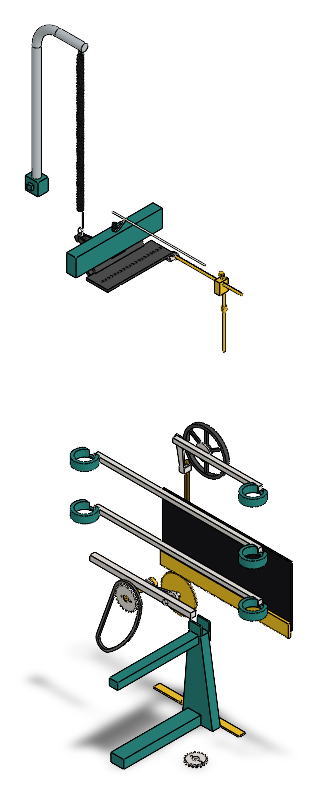
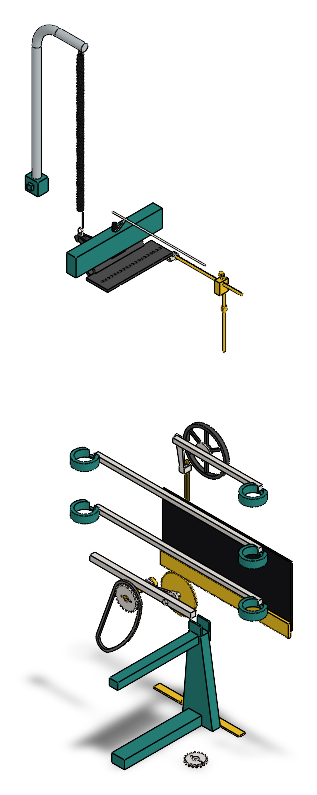
portal frame integrated: arbor pedestal z 90.5 / arbor 196 / foot rail east face shift; drive-train + output + top-level rebuilt, zero interference

diff --git a/cad/scripts/build_drive_train_assembly.py b/cad/scripts/build_drive_train_assembly.py
@@ -197,7 +197,8 @@ X_CRANK = (
     GEAR64_SEAT[0] + R64 * COS_I + 12.7 + (ADD16 * (1.0 + SEC_I) - PEN16_MID)
 )  # 118.00 -- photo: pedestal 122 +- 3 (1.3 sigma, see DIMENSIONS.md)
 
-ARBOR_LENGTH = 200.0  # spans z -100..+100
+ARBOR_LENGTH = 196.0  # spans z -98..+98 (M6.9: 1.0 clear of the a-frame
+# plate back face -99; north end keeps 23.9 in the support boss bore)
 CRANKSHAFT_Z0 = -150.0  # front end; crank-arm hub at +12 (PIN_HOLE_HEIGHT)
 CRANKSHAFT_LENGTH = 120.0  # build_crankshaft.py SHAFT_LENGTH
 CRANK_ARM_Z0 = CRANKSHAFT_Z0 + 8.0  # hub centre 12 - half thickness 4
@@ -207,8 +208,10 @@ REMOVABLE_Z0 = -85.6  # mounted T12 (face 5.0) against the pedestal north face:
 # chain rides its m2 teeth; v2_gears_010 shows the small steel wheel on the
 # crank pedestal), band -85.6..-80.6
 PEDESTAL_Z = -108.6  # crank pedestal centre (front face inside base edge)
-ARBOR_PEDESTAL_Z = 92.0  # south (-z) end only; north end clamps into the
-# rocker-arm-support boss bore at z 74.1..133 (frame.SLDASM, M6.5)
+ARBOR_PEDESTAL_Z = 90.5  # south (-z) end only; north end clamps into the
+# rocker-arm-support boss bore at z 74.1..133 (frame.SLDASM, M6.5).
+# M6.9: 92 -> 90.5 so the block front face -98.5 clears the a-frame
+# plate back face -99 by 0.5 (the portal-frame thickening)
 
 # The pinion must sit fully on the crankshaft.
 if PINION_TOOTH_Z + PINION_FACE / 2.0 > CRANKSHAFT_Z0 + CRANKSHAFT_LENGTH:

diff --git a/cad/scripts/build_a_frame.py b/cad/scripts/build_a_frame.py
@@ -80,7 +80,8 @@ RAIL_OVERLAP = 2.0  # sketch offset 2 inside the plate so the solids merge
 TOP_RAIL_X = (62.9, 82.9)  # = frustum apex span (20), inside the 28 apex
 TOP_RAIL_DEPTH = 16.0  # y 161.8..177.8 (machine 212.6..228.6 = photo window top)
 TOP_RAIL_Z1 = 201.45  # machine +90.45: frustum apex face 90.70 at rail bottom - 0.25
-FOOT_RAIL_X = (57.9, 87.9)  # 30 wide centred on the pivot line machine x +72.9
+FOOT_RAIL_X = (59.75, 89.75)  # 30 wide, west face 0.25 east of the
+# arbor-pedestal block (machine x +35.5..+59.5, drive-train.SLDASM)
 FOOT_RAIL_H = 20.0  # photo: bolted foot flange ~20 tall (bolts not modeled)
 FOOT_RAIL_Z1 = 192.35  # machine +81.35: frustum base face +81.6 - 0.25
 

diff --git a/cad/DIMENSIONS.md b/cad/DIMENSIONS.md
@@ -204,7 +204,7 @@ toward the horizon (e.g. the crank pedestal at x +122.3 reads at ratio
 | part | dims | position (x, z), bore y = 76 | source | confidence |
 |---|---|---|---|---|
 | `crank-pedestal` | green cylinder Ø46 × 110 tall, Ø9.5 bore along Z | (+118.00, −108.6) | front view: centre +123 ± 3 (M6.7 mesh-derived x within 1.3σ — crankshaft row), Ø 278 px / 6.02 px/mm, top ~110 above base top; z: standing inside the base front edge (−133.35), shaft stations in front | low/med |
-| `arbor-pedestal` ×1 (M6.5) | green block 24 × 16 × 85, Ø9.5 clamp bore along Z | (−47.5, −92) south only — arbor 200 long spans z ±100, stack ends ±70.6; the NORTH end clamps into the rocker-support frustum's east-flank boss bore (Ø9.7 at local (+25.4, 76) = machine (−47.5, 126.8), boss Ø20 face at z 74.1) — calibrated v3 side view shows no north pedestal, the arbor disappears into the frustum flank | function-driven; v3 side view (6.124 px/mm) | low/med |
+| `arbor-pedestal` ×1 (M6.5, M6.9 trim) | green block 24 × 16 × 85, Ø9.5 clamp bore along Z | (−47.5, −90.5) south only (M6.9: 92 → 90.5, block front face −98.5 clears the thickened a-frame plate back face −99 by 0.5) — arbor 196 long spans z ±98 (M6.9: 200 → 196, 1.0 clear of the plate), stack ends ±70.6; the NORTH end clamps into the rocker-support frustum's east-flank boss bore (Ø9.7 at local (+25.4, 76) = machine (−47.5, 126.8), boss Ø20 face at z 74.1) — calibrated v3 side view shows no north pedestal, the arbor disappears into the frustum flank | function-driven; v3 side view (6.124 px/mm) | low/med |
 | `cone-pivot-post` | black steel block 25 × 20 × 85, Ø9.5 journal bore (rotated 21.1° in plan with the cone axis) | (+62.4, −76.1) = shaft station −1 from the pivot end: the shaft engages the first 9 mm of the bore and ends inside (blind-bearing look — p.18 shows the shaft end disappearing into the bracket); the rotated block's z-reach 13.83 stops 1.0 clear of the perpendicular 64T's south face | p.18 "pivot" bracket; journal length from the cone-shaft row (~25) | low |
 | `cone-knob-post` | green round post Ø32 × 80, upward-open U-slot 3.5 wide, floor at 74.4 (resting 1/8" tip centre 76) | (−1.7, +90.0) = shaft station 177 from the pivot end (thin-tip journal) | p.18 top-down: green post Ø ~72 px / 2.23 px/mm (largest-cone-gear-OD scale); view 5/8 ball-knob at x ≈ −20 ± 15 agrees within error | low |
 
@@ -494,7 +494,7 @@ dead centre and the gaps flank it at ±p/2: rack teeth land on those gaps
 | Chain wheels | the two MOUNTED removable gears themselves (knob shaft T24, crankshaft T12): the bead chain rides their m2 teeth — that is how gear swaps change the platen ratio, and why the latch slackens the chain | — | M6.8 supersedes the M4c "17T sprockets both ends": ch. 23 text + `v4_transgear_002/008/012` (chain visibly wraps the removable's coarse teeth); ch30 p002 full-res: upper wrap tips Ø ≈ 53.6 ≈ T24 OD 52 at post-mirror (−65, ~248); crank wheel small ≈ Ø30 (`v2_gears_010`) ≈ T12 OD 28. `chain-sprocket.SLDPRT` retired from the assemblies | counted + scaled | med |
 | Reduction pinion (coaxial with rack pinion) | est. 24T DP 30, OD ≈ 21 mm measured, face ≈ 6 | — | edge-on views `v4_transgear_002/003/008`: small fine-tooth steel pinion on the rack-pinion shaft | scaled | low |
 | Pinion bar (M6.5) | 12-square steel, x −58 → +178 at machine y 253.5 (M6.5 trim from −95..+197: west end clears the A-frame clevis ears/ball at x −59, east end clears the SE column tangent 179.54); Ø9.6 stud bore along Z at x 0 (9.525 stud + slip clearance); both ends FLOAT (documented simplification — the real machine likely straps the bar to the a-frame and column) | — | ch. 30 views + M6.5 layout | scaled + derived | low/med |
-| A-frame (M6.5, re-thicknessed + rails M6.9) | green cast stand on the base front-west, doubles as the FRONT rocker support — the SOUTH upright of the rocker-support portal frame (ch30 p008): tapered plate 18.5 thick (machine z −117.5..−99.0 — photo reads ~28-30 but the band is pinned by the parked measuring stick at z ≤ −118 and the ch25 handle plane at z ≥ −98), foot x −115..−45 on the base top (y 50.8), apex x −87..−59 at the ball-seat saddle y 228.6 (machine); full-width saddle z ±11.1 over the last 19.8 of rise; clevis ears (z ±(8.1..11.1), 20 tall, tops machine 248.6) flank the south pivot-ball mount's Ø16 base (gap 16.2; ball r 9.5 centre 253.8 clears the ear inner faces; pivot shaft bottom 250.65 clears ear tops by 2.05); carries the portal-frame rails to the north frustum (faces −0.25): TOP RAIL 20 (x −82.9..−62.9) × 16 (y machine 212.6..228.6 = photo window top) to machine z +90.45, FOOT RAIL 30 (x −87.9..−57.9) × 20 on the base top to machine z +81.35 (bolts not modeled); the real machine casts uprights + rails in one piece (split documented) | — | ch. 14 pp. 26–29 + ch. 30 front view: clevis grips the pivot ball at (−72, 252) — M6.5 apex crop; ch30 p008 (brightened) shows the full windowed frame; the M6.4 "ears grip the pinion bar" read is REFUTED (bar now floats) | scaled | med |
+| A-frame (M6.5, re-thicknessed + rails M6.9) | green cast stand on the base front-west, doubles as the FRONT rocker support — the SOUTH upright of the rocker-support portal frame (ch30 p008): tapered plate 18.5 thick (machine z −117.5..−99.0 — photo reads ~28-30 but the band is pinned by the parked measuring stick at z ≤ −118 and the ch25 handle plane at z ≥ −98), foot x −115..−45 on the base top (y 50.8), apex x −87..−59 at the ball-seat saddle y 228.6 (machine); full-width saddle z ±11.1 over the last 19.8 of rise; clevis ears (z ±(8.1..11.1), 20 tall, tops machine 248.6) flank the south pivot-ball mount's Ø16 base (gap 16.2; ball r 9.5 centre 253.8 clears the ear inner faces; pivot shaft bottom 250.65 clears ear tops by 2.05); carries the portal-frame rails to the north frustum (faces −0.25): TOP RAIL 20 (machine x +62.9..+82.9) × 16 (y machine 212.6..228.6 = photo window top) to machine z +90.45, FOOT RAIL 30 (machine x +59.75..+89.75 — west face 0.25 east of the arbor-pedestal block) × 20 on the base top to machine z +81.35 (bolts not modeled); the part is authored MACHINE-handed (MIRROR_PLANE "x0", M6.9 — the one-sided rails killed the local-z symmetry the old "z" entry used); the real machine casts uprights + rails in one piece (split documented) | — | ch. 14 pp. 26–29 + ch. 30 front view: clevis grips the pivot ball at (−72, 252) — M6.5 apex crop; ch30 p008 (brightened) shows the full windowed frame; the M6.4 "ears grip the pinion bar" read is REFUTED (bar now floats) | scaled | med |
 | Transgear stud (M6.4) | Ø9.525 (3/8") × 36 plug in the pinion-bar bore, axis −Z from z −101.5; Ø14 × 4 retaining collar at the front end (z −141.5) | — | derived: carries rack pinion (z −137.5), fixed pinion (z −134) and latch big hub (z −122.5); end hardware collapsed to a collar | derived | low |
 | Latch arm (M6.8) | tapered link, 4.5 thick: big hub Ø22 / small hub Ø16, both bores Ø9.6; centre distance 66.05 = ch30 REST state, stud (0, 253.5) → parked knob shaft (pre-mirror +65, 241.78); assembled at −10.22° below +X (knob shaft clears the pinion-bar underside 247.5 by 0.96) | — | ch30 p002 full-res wrap centre (−65, ~248 post-mirror, ±3 chain-plane parallax; y clamped under the bar) — supersedes the M6.4 mesh-derived 34.26/−20°, which is the ENGAGED-state c2c (see Appendix C #8) | scaled + derived | med |
 | Knob shaft (M6.8) | Ø9.525 × 58.0 through the latch small hub at (65.0, 241.78), spanning machine z −76.5 (chain end) → −134.5; carries the mounted T24 removable chain-wrapped at z −81.5..−76.5 and the fine 24T pinion at −134..−128; Ø20 × 6.5 brass thumb knob ending at −141.0, level with the stub collar band | — | `v4_transgear_008/020` + ch. 23 topology (M6.8) | scaled + derived | low/med |
